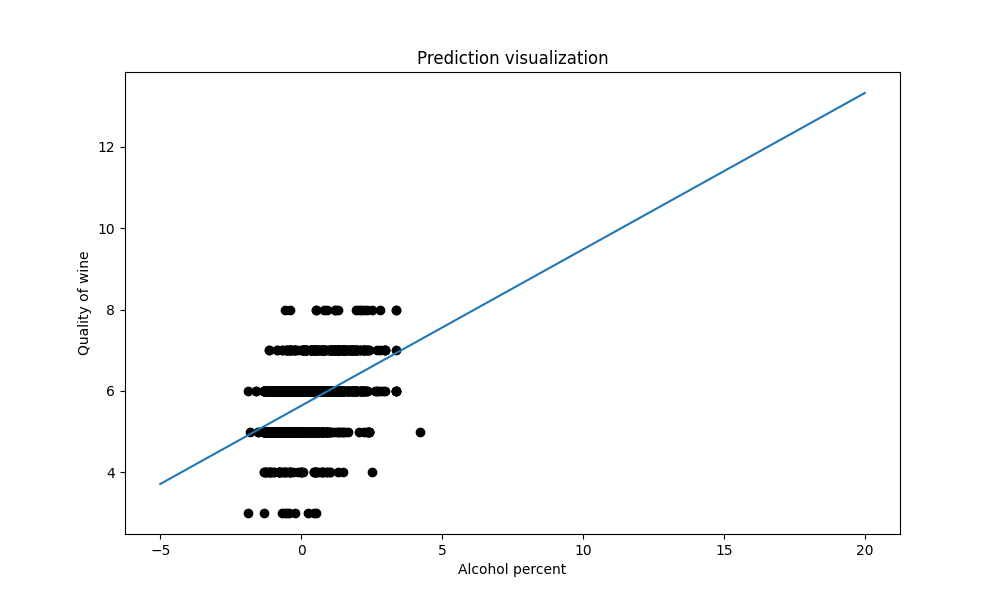
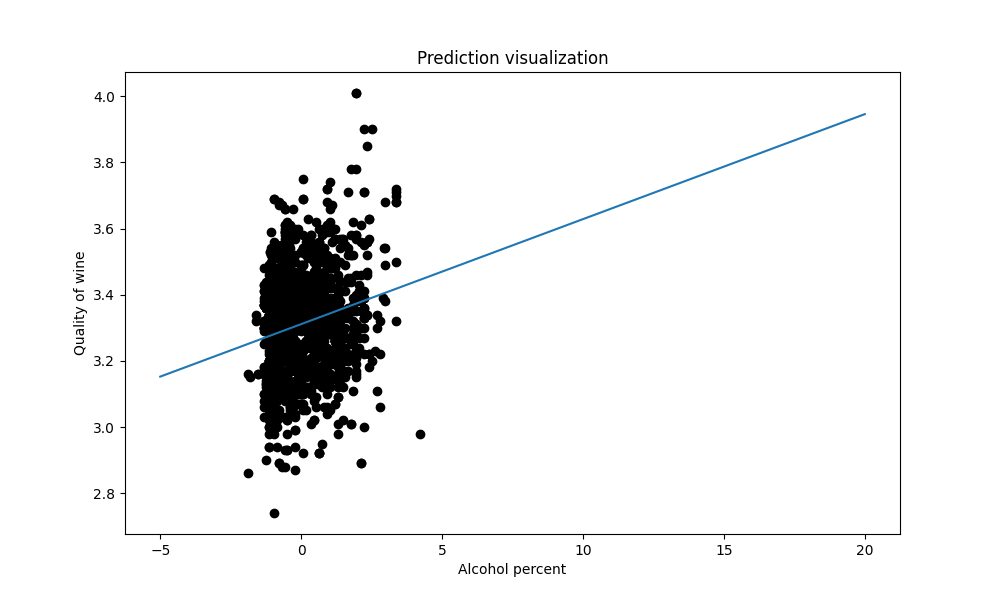
changed variables

diff --git a/wine_quality.py b/wine_quality.py
@@ -21,6 +21,8 @@ from data_read import data_read, y_quality
 wine_quality_page = Blueprint('wine_quality_page', __name__,
                               template_folder='templates')
 
+sp = 'wine_quality_page.'
+
 
 @wine_quality_page.route('/wine_quality')
 def wine_quality():
@@ -41,8 +43,13 @@ def wine_quality():
     image = os.path.join('static/images/mat_konfuzije.png')
 
     return render_template(
-        'vina.html',
+        'info.html',
+        link1=sp+'wine_quality',
+        link2=sp+'model1',
+        link3=sp+'wine_quality',
+        link4=sp+'wine_quality',
         name='wine_quality_page.'+name,
+        image=image
     )
 
 
@@ -69,10 +76,16 @@ def model1():
     model1 = DecisionTreeClassifier(random_state=1)
     model1.fit(X_train, y_train)
     y_pred1 = model1.predict(X_test)
+    print(type(classification_report(y_test, y_pred1)))
 
     return render_template(
-        'vina.html',
+        'info.html',
+        link1=sp+'wine_quality',
+        link2=sp+'model1',
+        link3=sp+'wine_quality',
+        link4=sp+'wine_quality',
         name='wine_quality_page.'+name,
+        # image=image
     )
 
 

diff --git a/reg_lin_gra_spu.py b/reg_lin_gra_spu.py
@@ -15,7 +15,7 @@ gra_spu_links = ['distribution_alcohol', 'distribution_quality',
                  'gradient_descen', 'funkcija_troska', 'reg_lin_izgled_regresije']
 
 x = x_alcohol()
-y = y_quality()
+y = x_ph()
 
 # Skaliranje podataka
 x_scaled = (x - x.mean()) / x.std()
@@ -59,8 +59,8 @@ def distribution_alcohol():
 @reg_lin_gra_spu_page.route('/distribution_quality')
 def distribution_quality():
 
-    x_ax = 'quality'
-    pic = 'static/images/rlgs_distr_quality.png'
+    x_ax = 'ph'
+    pic = 'static/images/rlgs_distr_ph.png'
 
     image = handle_image(y, x_ax, pic, 'hist', 0)
 

diff --git a/reg_lin_una_val.py b/reg_lin_una_val.py
@@ -103,6 +103,7 @@ def matrica_konfuzije():
     ax = sns.heatmap(data_copy.corr())
     fig = ax.get_figure()
     fig.savefig('static/images/matrica_konfuzije.png')
+    plt.close(fig)
 
     image = os.path.join('static/images/matrica_konfuzije.png')
 

diff --git a/vina.py b/vina.py
@@ -12,8 +12,8 @@ from reg_pol_methods import *
 vina_page = Blueprint('vina_page', __name__,
                       template_folder='templates')
 
-x = x_ph()
-y = y_quality()
+x = x_alcohol()
+y = x_ph()
 
 
 @vina_page.route('/vina')

diff --git a/reg_pol.py b/reg_pol.py
@@ -33,8 +33,8 @@ def show(page):
         abort(404)'''
 
 
-x = x_ph()
-y = y_quality()
+x = x_alcohol()
+y = x_ph()
 
 
 # 2
